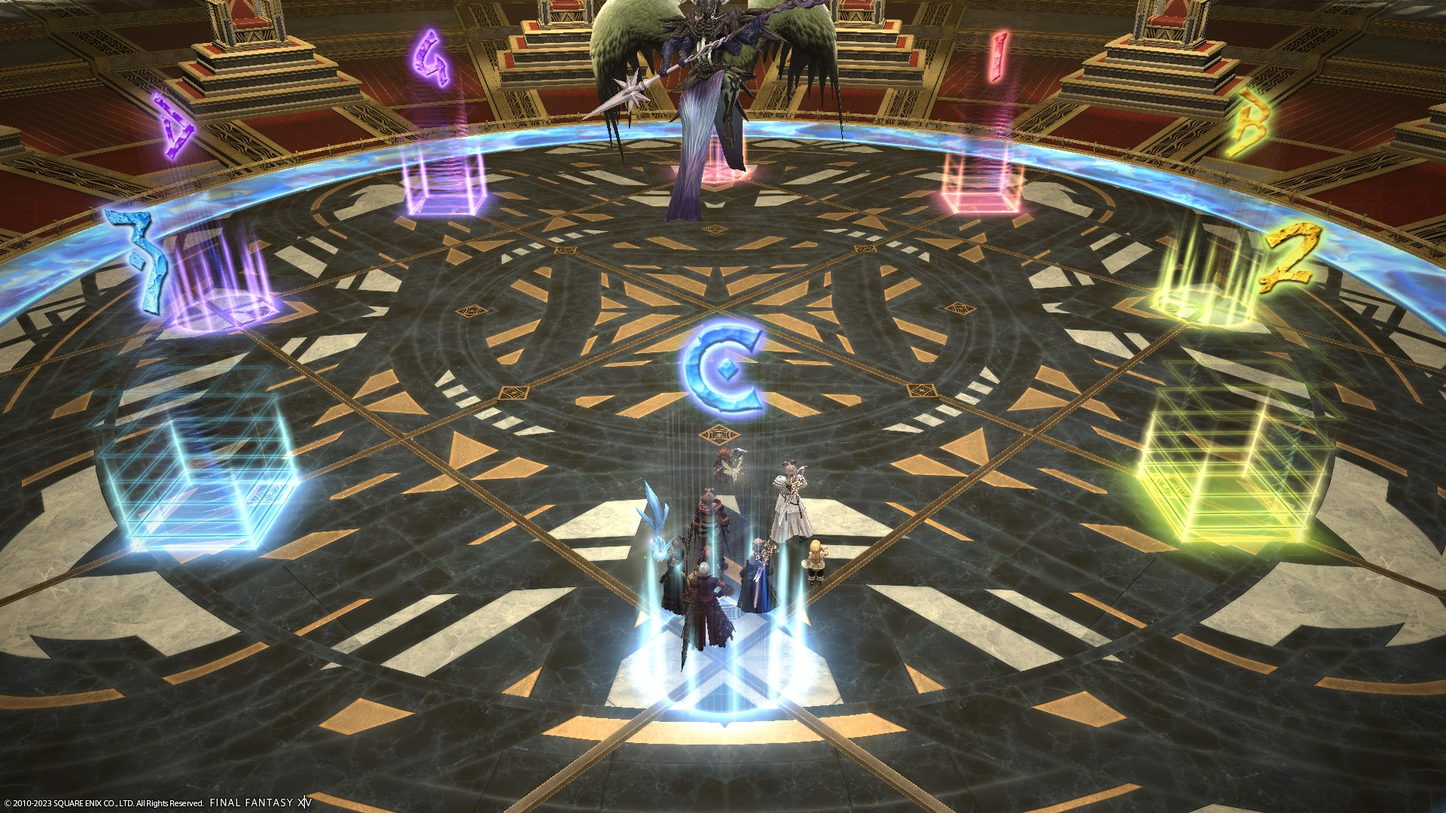
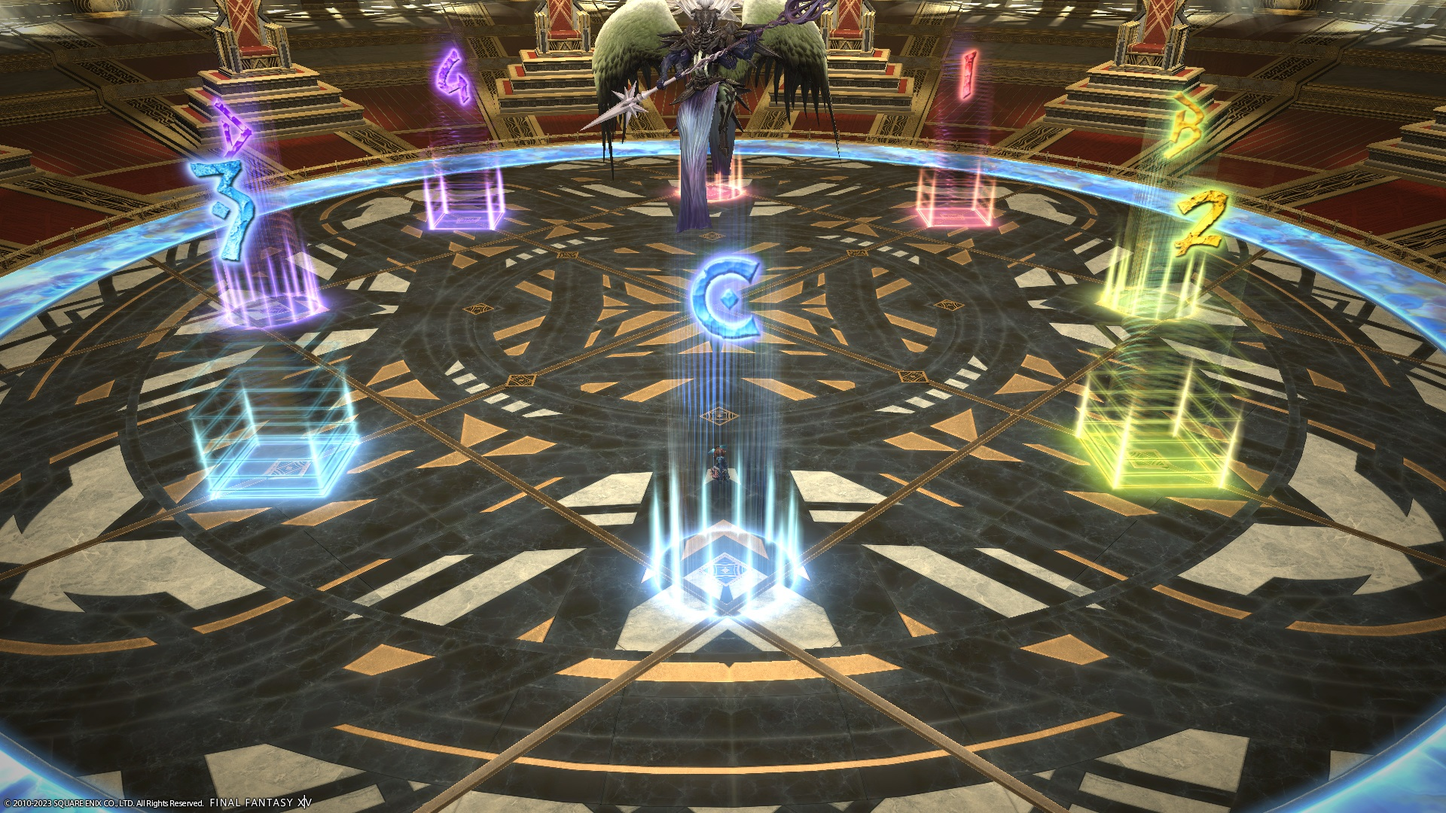
Update markers from radius 14 to radius 13

diff --git a/6.0_endwalker/savage_raids/p11s/README.md b/6.0_endwalker/savage_raids/p11s/README.md
@@ -43,7 +43,7 @@ The colours indicate the pairs positions (MT/D3 are on red, etc).
 <summary>XIVLauncher WaymarkPresetPlugin positions</summary>
 
 ```json
-{"Name":"P11S","MapID":941,"A":{"X":100.0,"Y":0.0,"Z":86.0,"ID":0,"Active":true},"B":{"X":114.0,"Y":0.0,"Z":100.0,"ID":1,"Active":true},"C":{"X":100.0,"Y":0.0,"Z":114.0,"ID":2,"Active":true},"D":{"X":86.0,"Y":0.0,"Z":100.0,"ID":3,"Active":true},"One":{"X":90.101,"Y":0.0,"Z":90.101,"ID":4,"Active":true},"Two":{"X":109.899,"Y":0.0,"Z":90.101,"ID":5,"Active":true},"Three":{"X":109.899,"Y":0.0,"Z":109.899,"ID":6,"Active":true},"Four":{"X":90.101,"Y":0.0,"Z":109.899,"ID":7,"Active":true}}
+{"Name":"P11S","MapID":941,"A":{"X":100.0,"Y":0.0,"Z":87.0,"ID":0,"Active":true},"B":{"X":113.0,"Y":0.0,"Z":100.0,"ID":1,"Active":true},"C":{"X":100.0,"Y":0.0,"Z":113.0,"ID":2,"Active":true},"D":{"X":87.0,"Y":0.0,"Z":100.0,"ID":3,"Active":true},"One":{"X":90.8,"Y":0.0,"Z":90.8,"ID":4,"Active":true},"Two":{"X":109.2,"Y":0.0,"Z":90.8,"ID":5,"Active":true},"Three":{"X":109.2,"Y":0.0,"Z":109.2,"ID":6,"Active":true},"Four":{"X":90.8,"Y":0.0,"Z":109.2,"ID":7,"Active":true}}
 ```
 
 </details>
@@ -55,7 +55,7 @@ You may see the square markers rotated 90 degrees clockwise in Japanese parties.
 <summary>XIVLauncher WaymarkPresetPlugin positions</summary>
 
 ```json
-{"Name":"P11S (JP)","MapID":941,"A":{"X":100.0,"Y":0.0,"Z":86.0,"ID":0,"Active":true},"B":{"X":114.0,"Y":0.0,"Z":100.0,"ID":1,"Active":true},"C":{"X":100.0,"Y":0.0,"Z":114.0,"ID":2,"Active":true},"D":{"X":86.0,"Y":0.0,"Z":100.0,"ID":3,"Active":true},"One":{"X":109.9,"Y":0.0,"Z":90.1,"ID":4,"Active":true},"Two":{"X":109.9,"Y":0.0,"Z":109.9,"ID":5,"Active":true},"Three":{"X":90.1,"Y":0.0,"Z":109.9,"ID":6,"Active":true},"Four":{"X":90.1,"Y":0.0,"Z":90.1,"ID":7,"Active":true}}
+{"Name":"P11S (JP)","MapID":941,"A":{"X":100.0,"Y":0.0,"Z":87.0,"ID":0,"Active":true},"B":{"X":113.0,"Y":0.0,"Z":100.0,"ID":1,"Active":true},"C":{"X":100.0,"Y":0.0,"Z":113.0,"ID":2,"Active":true},"D":{"X":87.0,"Y":0.0,"Z":100.0,"ID":3,"Active":true},"One":{"X":109.2,"Y":0.0,"Z":90.8,"ID":4,"Active":true},"Two":{"X":109.2,"Y":0.0,"Z":109.2,"ID":5,"Active":true},"Three":{"X":90.8,"Y":0.0,"Z":109.2,"ID":6,"Active":true},"Four":{"X":90.8,"Y":0.0,"Z":90.8,"ID":7,"Active":true}}
 ```
 
 </details>
